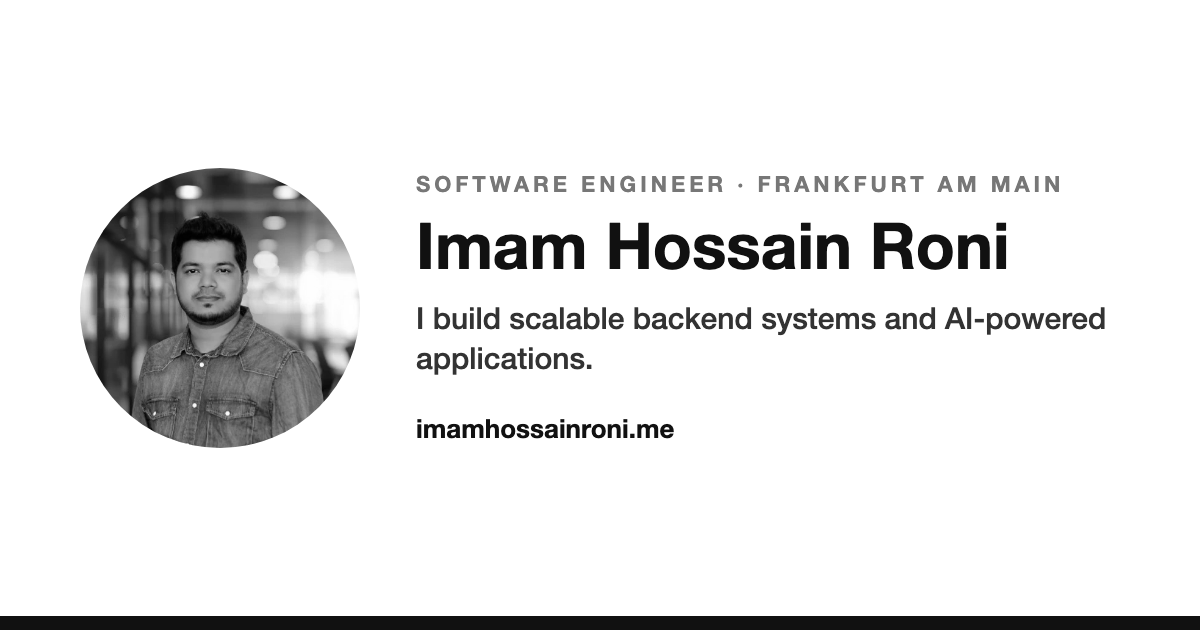
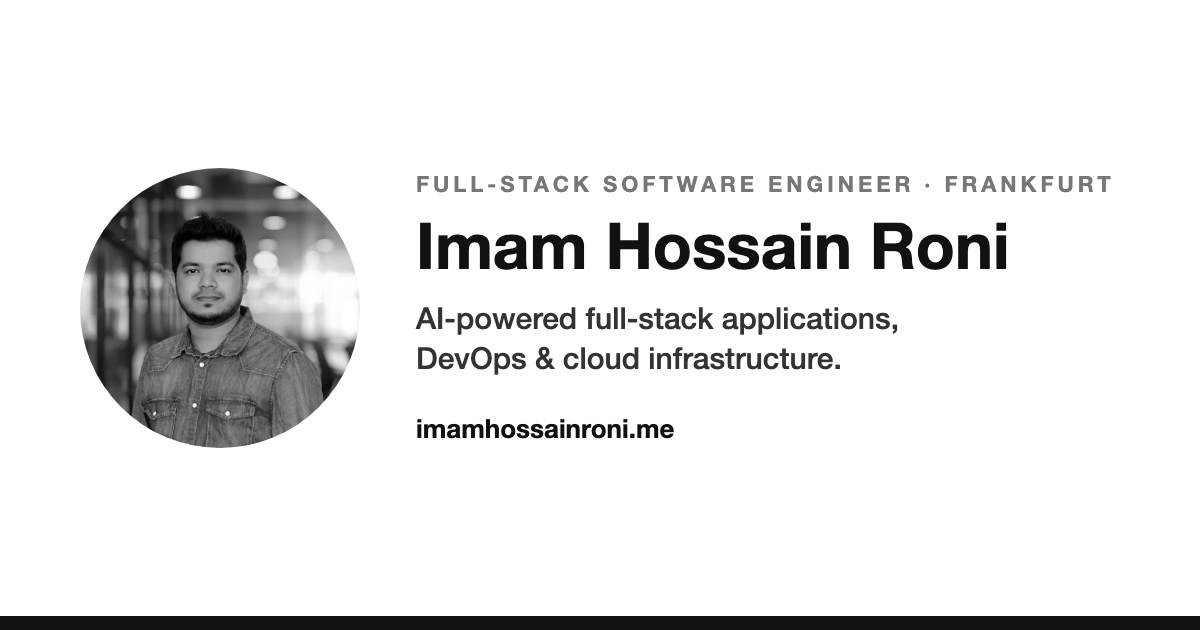
Reposition as full-stack engineer with AI, DevOps and cloud focus

Changed region(s): [[0.3392, 0.4825, 0.925, 0.6032], [0.3392, 0.2714, 0.925, 0.3016]]

diff --git a/src/config.ts b/src/config.ts
@@ -1,7 +1,7 @@
 // Place any global data in this file.
 // You can import this data from anywhere in your site by using the `import` keyword.
 
-export const SITE_TITLE = 'Imam Hossain Roni | Software Engineer';
-export const SITE_DESCRIPTION = 'Software Engineer with 6+ years of experience building scalable full-stack systems, SaaS platforms, and AI-powered applications with Python, Django, FastAPI, C#, ASP.NET Core, LLMs and RAG.';
+export const SITE_TITLE = 'Imam Hossain Roni | Full-Stack Software Engineer';
+export const SITE_DESCRIPTION = 'Full-stack software engineer with 6+ years of experience building AI-powered applications, SaaS platforms and cloud infrastructure with Python, Django, FastAPI, C#, ASP.NET Core, React, AWS, Azure, Docker, Kubernetes and Terraform.';
 export const GENERATE_SLUG_FROM_TITLE = true
 export const TRANSITION_API = true

diff --git a/README.md b/README.md
@@ -1,6 +1,6 @@
 # Imam Hossain Roni: Portfolio
 
-Personal portfolio website of **Imam Hossain Roni**, a Software Engineer based in Frankfurt am Main, Germany, focused on scalable backend systems and AI-powered applications.
+Personal portfolio website of **Imam Hossain Roni**, a Full-Stack Software Engineer based in Frankfurt am Main, Germany, focused on AI-powered applications, DevOps and cloud.
 
 🌐 **Live site:** [imamhossainroni.me](https://imamhossainroni.me)
 
